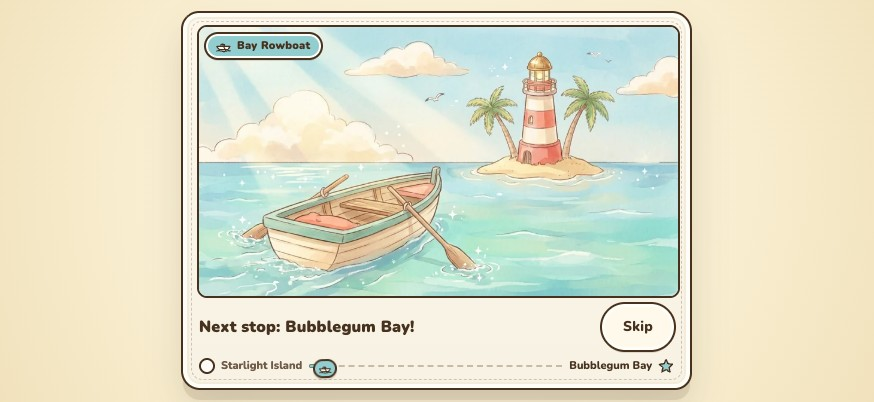
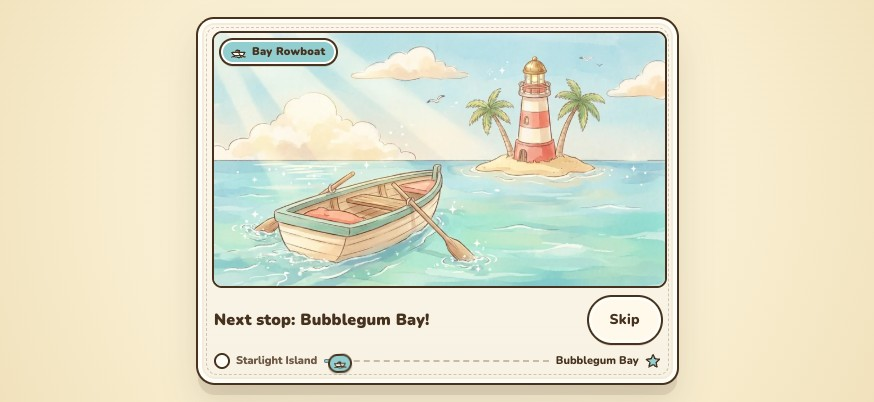
fix: Polish E14 travel vignette phone safe-area layout and remove unused fade helper (#17)
Tightens compact phone and notched iPhone SE (667x375) safe-area spacing and single-line caption clamping in travel-overlay.css, removes the unused travelFadeAlpha export in src/render/fade.ts, expands Playwright Chromium/WebKit @smoke e2e coverage for notched 667x375 Alpine Summit Overlook and live bus-coast.webp, and adds vision-verified review captures.

Changed region(s): [[0.1854, 0.0299, 0.8032, 1.0], [0.4016, 0.2985, 0.4325, 0.3284]]

diff --git a/tests/e2e/travel-vignette.spec.ts b/tests/e2e/travel-vignette.spec.ts
@@ -301,3 +301,127 @@ test(
   expect((await readState(page)).transition).toBeNull();
   await expect(page.locator("html")).not.toHaveAttribute("data-travel-vignette", "open");
 });
+
+test(
+  "Notched iPhone SE 667x375 fits longest summit caption and coastal bus-coast card @smoke",
+  async ({ page }) => {
+    await page.setViewportSize({ width: 667, height: 375 });
+    await page.goto("./?touch=1");
+    await page.waitForFunction(() => Boolean(window.__cloverhollow));
+    await page.evaluate(() => {
+      const style = document.documentElement.style;
+      style.setProperty("--safe-left", "44px");
+      style.setProperty("--safe-right", "44px");
+      style.setProperty("--safe-bottom", "21px");
+      style.setProperty("--safe-top", "0px");
+    });
+
+    // Ride down from Summit paused so Fae lands beside Pinecone Pass ski lift.
+    await resetPaused(page, "summit");
+    await walk(page, "y", 875);
+    await walk(page, "x", 465);
+    await page.keyboard.down("ArrowLeft");
+    await step(page, 2);
+    await page.keyboard.up("ArrowLeft");
+    await pressZ(page);
+    await advanceToFinalTravelLine(page, 0);
+    await page.keyboard.press("z");
+    await step(page, 40);
+    expect((await readState(page)).area).toBe("pass");
+
+    // Approach ski lift (500, 412), lasso the scarf once, then board up to Summit live.
+    await walk(page, "x", 500);
+    await walk(page, "y", 455);
+    await page.keyboard.down("ArrowUp");
+    await step(page, 2);
+    await page.keyboard.up("ArrowUp");
+    await pressZ(page);
+    // Clear the one-time scarf lasso knot first.
+    for (let i = 0; i < 40; i += 1) {
+      const d = (await readState(page)).dialogue;
+      if (d === null) break;
+      await pressZ(page);
+    }
+    await pressZ(page);
+    expect((await readState(page)).dialogue?.knot).toBe("ski_lift");
+    await advanceToFinalTravelLine(page, 0);
+
+    await resume(page);
+    await page.keyboard.press("z");
+    await waitForVignetteOpen(page, "lift-summit", "Next stop: Alpine Summit Overlook!");
+    await waitForStableOpacity(page);
+
+    const notched = await page.evaluate(() => {
+      const card = document.querySelector(".travel-card")?.getBoundingClientRect();
+      const caption = document.querySelector(".travel-caption")?.getBoundingClientRect();
+      const skip = document.querySelector(".travel-skip-btn")?.getBoundingClientRect();
+      return { card, caption, skip };
+    });
+    expect(notched.card).not.toBeNull();
+    expect(notched.caption).not.toBeNull();
+    expect(notched.skip).not.toBeNull();
+    if (
+      notched.card === undefined ||
+      notched.caption === undefined ||
+      notched.skip === undefined
+    ) {
+      throw new Error("Missing notched SE vignette layout elements");
+    }
+    expect(notched.card.left).toBeGreaterThanOrEqual(44);
+    expect(notched.card.right).toBeLessThanOrEqual(667 - 44 + 1);
+    expect(notched.card.top).toBeGreaterThanOrEqual(0);
+    expect(notched.card.bottom).toBeLessThanOrEqual(375 - 21 + 1);
+    expect(notched.caption.height).toBeLessThanOrEqual(24);
+    expect(notched.caption.right).toBeLessThanOrEqual(notched.skip.left + 1);
+    expect(notched.skip.height).toBeGreaterThanOrEqual(44);
+
+    if (REVIEW_SHOTS) {
+      await page.screenshot({
+        path: "art/review/e14-travel-summit-se-667.jpg",
+        type: "jpeg",
+        quality: 90,
+      });
+    }
+
+    await page.locator(".travel-overlay").click();
+    await page.waitForFunction(() => {
+      const state = window.__cloverhollow?.getState();
+      return state?.area === "summit" && state.transition === null;
+    });
+
+    // Also verify coastal bus-coast.webp card live (plaza -> bay via sue-cottage).
+    await page.setViewportSize({ width: 1280, height: 720 });
+    await resetPaused(page, "sue-cottage");
+    await walk(page, "y", 510);
+    await walk(page, "x", 150);
+    await step(page, 40);
+    expect((await readState(page)).area).toBe("bay");
+    await walk(page, "y", 545);
+    await walk(page, "x", 355);
+    await page.keyboard.down("ArrowUp");
+    await step(page, 2);
+    await page.keyboard.up("ArrowUp");
+    await pressZ(page);
+    await advanceToFinalTravelLine(page, 0);
+    await page.keyboard.press("z");
+    await step(page, 40);
+    expect((await readState(page)).area).toBe("plaza");
+
+    await page.keyboard.down("ArrowUp");
+    await step(page, 2);
+    await page.keyboard.up("ArrowUp");
+    await pressZ(page);
+    expect((await readState(page)).dialogue?.knot).toBe("bus_stop");
+    await advanceToFinalTravelLine(page, 0);
+
+    await resume(page);
+    await page.keyboard.press("z");
+    await waitForVignetteOpen(page, "bus-coast", "Next stop: Bubblegum Bay!");
+    await expect(page.locator(".travel-badge-label")).toHaveText("Star-Line Bus");
+    await page.keyboard.press("z");
+    await page.waitForFunction(() => {
+      const state = window.__cloverhollow?.getState();
+      return state?.area === "bay" && state.transition === null;
+    });
+  },
+);

diff --git a/src/ui/travel-overlay.css b/src/ui/travel-overlay.css
@@ -168,12 +168,16 @@
 }
 
 .travel-caption {
+  min-width: 0;
   margin: 0;
   color: var(--sticker-ink);
   font-size: 20px;
   font-weight: 900;
   letter-spacing: 0.01em;
   line-height: 1.15;
+  white-space: nowrap;
+  overflow: hidden;
+  text-overflow: ellipsis;
 }
 
 .travel-skip-btn {
@@ -324,11 +328,11 @@
   }
 
   .travel-card {
-    gap: 6px;
+    gap: 8px;
     width: min(
       560px,
       calc(100vw - 28px - var(--safe-left) - var(--safe-right)),
-      calc((100dvh - var(--safe-top) - var(--safe-bottom) - 128px) * 16 / 9 + 20px)
+      calc((100dvh - var(--safe-top) - var(--safe-bottom) - 144px) * 16 / 9 + 20px)
     );
     padding: 8px 10px 8px;
     border-width: 4px;
@@ -341,7 +345,7 @@
   }
 
   .travel-art-wrap {
-    max-height: calc(100dvh - var(--safe-top) - var(--safe-bottom) - 128px);
+    max-height: calc(100dvh - var(--safe-top) - var(--safe-bottom) - 144px);
     border-radius: 10px;
   }
 
@@ -360,8 +364,8 @@
   }
 
   .travel-footer {
-    gap: 6px;
-    padding: 0 2px;
+    gap: 8px;
+    padding: 1px 2px 0;
   }
 
   .travel-caption {
@@ -383,6 +387,34 @@
   .travel-marker {
     width: 24px;
     height: 19px;
+  }
+}
+
+@media (max-height: 400px) {
+  .travel-card {
+    gap: 6px;
+    width: min(
+      520px,
+      calc(100vw - 24px - var(--safe-left) - var(--safe-right)),
+      calc((100dvh - var(--safe-top) - var(--safe-bottom) - 134px) * 16 / 9 + 16px)
+    );
+    padding: 6px 8px 6px;
+  }
+
+  .travel-art-wrap {
+    max-height: calc(100dvh - var(--safe-top) - var(--safe-bottom) - 134px);
+  }
+
+  .travel-footer {
+    gap: 6px;
+  }
+
+  .travel-caption {
+    font-size: 14.5px;
+  }
+
+  .travel-stop-label {
+    font-size: 10.5px;
   }
 }
 

diff --git a/tests/unit/travel-vignette.test.ts b/tests/unit/travel-vignette.test.ts
@@ -3,7 +3,7 @@ import { join } from "node:path";
 import { describe, expect, it } from "vitest";
 import { loadContent } from "../../src/content/load";
 import type { Area, State } from "../../src/core";
-import { fadeAlpha, travelFadeAlpha, vignetteEnvelope } from "../../src/render/fade";
+import { vignetteEnvelope } from "../../src/render/fade";
 import {
   classifyTravelVignette,
   shouldShowTravelVignette,
@@ -260,7 +260,7 @@ describe("E14: Travel Vignette Classification & Rules", () => {
     ).toBe(false);
   });
 
-  it("computes bounded motion, vignette envelope, travelFadeAlpha, and skip keys", () => {
+  it("computes bounded motion, vignette envelope, and skip keys", () => {
     const modes: readonly [TravelMode, number, number, number][] = [
       ["bus", -3.2, 0.8, 2.2],
       ["boat", -2.8, 2.8, 4.5],
@@ -306,14 +306,6 @@ describe("E14: Travel Vignette Classification & Rules", () => {
       progress: 1,
     });
     expect(vignetteEnvelope(500, 0)).toEqual({ opacity: 0, scale: 1, progress: 1 });
-
-    const transition: State["transition"] = {
-      phase: "in",
-      elapsed: 6,
-      target: { area: "bay", spawn: "from-plaza" },
-    };
-    expect(travelFadeAlpha(transition, 14, true)).toBe(1);
-    expect(travelFadeAlpha(transition, 14, false)).toBe(fadeAlpha(transition, 14));
 
     for (const code of ["KeyZ", "Space", "Enter", "KeyX", "Escape"]) {
       expect(isTravelSkipKey(code)).toBe(true);

diff --git a/src/render/fade.ts b/src/render/fade.ts
@@ -73,11 +73,3 @@ export function vignetteEnvelope(
   }
   return { opacity: 1, scale: 1, progress };
 }
-
-export function travelFadeAlpha(
-  transition: State["transition"],
-  doorFadeTicks: number,
-  vignetteActive: boolean,
-): number {
-  return vignetteActive ? 1 : fadeAlpha(transition, doorFadeTicks);
-}

diff --git a/docs/review-queue.md b/docs/review-queue.md
@@ -136,4 +136,4 @@ journal gallery baselines were viewed at phone and desktop sizes.
 | World-Expansion Playtest & Owner Art Review Showcase (Milestone 165) | Publication-grade 6-panel HUD-free showcase montage (`art/review/world-expansion-showcase.jpg`) pairing Photo Showcase Mode stills of Milo's Sketch Loft, Rosie's Flower Cottage, Alpine Summit Overlook, Starlight Island, and the Post-Finale Sunny Cloverhollow Sanctuary Festival alongside Chef Mateo's Taco Truck Kitchen, backed by automated `tests/unit/release-audit.test.ts` (32/32 areas, 36 fixtures, 21 expansion art artifacts, `< 1,000` line src cap) and `@smoke` Chromium + WebKit `tests/e2e/release-playtest.spec.ts` plus `milestone-158.spec.ts` & 5 `vision`-audited baseline refreshes (`ending-kitchen`, `gamepad-lantern`, `kit-school-behind`, `trail-bridge`, `woods-clubhouse-lantern`) |
 | Living NPC Scale Calibration & Spatial Dispersion Polish (Milestone 166) | Mass-calibrated `scale` values in `content/characters.json` for all 28 Living NPCs (`[0.42, 0.47]` kids, `[0.44, 0.50]` adults; zero art regeneration), spatial dispersion & staggered X/Y placement polish across 9 areas (`plaza`, `bay`, `trail`, `park`, `field`, `lodge`, `arcade`, `east-hall`, `parlor`) with `>= 220u` outdoor / `>= 190u` indoor separation between Living NPCs across strolling waypoints, 0% occlusion, and zero replay drift across all 73 `origin/main` recorded sims, permanent Spatial Dispersion & Scale Consistency unit guards (`tests/unit/living-npcs.test.ts`), and `vision`-verified 1280×720 review JPEGs (`art/review/living-npcs-dispersed-plaza.jpg`, `art/review/living-npcs-dispersed-bay.jpg`, `art/review/living-npcs-dispersed-interiors.jpg`) |
 | Interactive Star Gem Field Ledger & Grandpa Barnaby's Gem Tracker (Milestone 171) | Pure `journalStarGems` / `StarGemId` / `StarGemEntry` registry (`src/core/journal.ts`) listing all 7 lore-accurate valley Star Gems (`Amethyst`, `Aqua`, `Citrine`, `Frost`, `Prism`, `Amber`, `Clover`) with jewel hues, found notes, and Grandpa Barnaby's field hints; pixel-identical interactive `button.journal-supply.journal-gems` pill on Journal NOTES (`src/ui/journal.ts`, `src/ui/journal-nav.ts`, `src/ui/journal.css`) opening the die-cut **Star Gem Field Ledger** modal (`src/ui/journal-gems-ledger.ts`, composed into `src/ui/journal-field-note.ts`) with faceted jewel-tinted SVG icons (zero `<text>` nodes), golden `★ 7/7 COMPLETE!` header & footer celebration, full `Escape`/`X`/`B`/backdrop/`×` dismiss with `.journal-gems` focus restoration and UI foley, and `vision`-verified review captures (`art/review/m171-gems-ledger-1280.jpg`, `art/review/m171-gems-ledger-874.jpg`) with zero visual baseline diffs |
-| Illustrated Storybook Travel Vignettes — Art Wave C2 (Milestone 176 / Track E14) | Five compact `800x450` WebP hand-painted watercolor fast-travel diorama cards (`public/assets/travel/{bus-hills,bus-coast,bus-pass,boat-island,lift-summit}.webp`, 42–65 KB each; `art/recipes/travel-vignettes.json`; 3×2 review contact sheet `art/review/travel-vignettes-sheet.jpg`), framed die-cut travel postcard overlay with `"Next stop: <Destination>!"` caption, animated progress-fill route strip, and skippable `1680 ms` hold during live bus/rowboat/ski-lift rides (instant zero-delay bypass in paused harness steps & Reduced Motion); live renders reviewed via `vision` in `art/review/e14-travel-bus-1280.jpg` (1280×720) and `art/review/e14-travel-boat-874.jpg` (874×402 touch) |
+| Illustrated Storybook Travel Vignettes — Art Wave C2 (Milestone 176 / Track E14) | Five compact `800x450` WebP hand-painted watercolor fast-travel diorama cards (`public/assets/travel/{bus-hills,bus-coast,bus-pass,boat-island,lift-summit}.webp`, 42–65 KB each; `art/recipes/travel-vignettes.json`; 3×2 review contact sheet `art/review/travel-vignettes-sheet.jpg`), framed die-cut travel postcard overlay with `"Next stop: <Destination>!"` caption, animated progress-fill route strip, and skippable `1680 ms` hold during live bus/rowboat/ski-lift rides (instant zero-delay bypass in paused harness steps & Reduced Motion); live renders reviewed via `vision` in `art/review/e14-travel-bus-1280.jpg` (1280×720), `art/review/e14-travel-boat-874.jpg` (874×402 touch), and `art/review/e14-travel-summit-se-667.jpg` (notched 667×375 iPhone SE touch) |

diff --git a/docs/plan.md b/docs/plan.md
@@ -7589,7 +7589,8 @@ Milestone number in `docs/plan.md` at rebase time to avoid numbering collisions.
     `island/props-0.webp`).
   - Audited every card and the labeled 3×2 review sheet
     (`art/review/travel-vignettes-sheet.jpg`) plus live desktop/phone renders
-    (`art/review/e14-travel-bus-1280.jpg`, `art/review/e14-travel-boat-874.jpg`)
+    (`art/review/e14-travel-bus-1280.jpg`, `art/review/e14-travel-boat-874.jpg`,
+    `art/review/e14-travel-summit-se-667.jpg`)
     with `vision`.
 - **Pure Route Classifier & Fade Envelope (`src/render/travel-vignette.ts`,
   `src/render/fade.ts`):**
@@ -7601,14 +7602,15 @@ Milestone number in `docs/plan.md` at rebase time to avoid numbering collisions.
     rest fades, and `harness`.
   - `shouldShowTravelVignette` enforces instant zero-delay bypass during paused
     harness steps, `paused` mode, and Reduced Motion (`isReducedMotionActive()`).
-  - Added `travelMarkerMotion`, `vignetteEnvelope`, and `travelFadeAlpha`
-    leaving `fadeAlpha` and `transitionZoom` intact.
+  - Added `travelMarkerMotion` and `vignetteEnvelope`, leaving `fadeAlpha` and
+    `transitionZoom` intact.
 - **Postcard Overlay & AreaLoader Integration (`src/ui/travel-overlay.ts`,
   `src/ui/travel-overlay.css`, `src/shell/area-loader.ts`, `src/main.ts`):**
   - Framed die-cut cream postcard (`z-index: 65`, `.sticker-ui.travel-overlay`
     specificity guard against CSS bundle order, dashed stitch border, hand-inked
     SVG vehicle badge & animated progress-fill route strip, `>= 44 px` touch
-    skip button, safe-area fit on both `1280x720` and `874x402`).
+    skip button, safe-area fit on `1280x720`, `874x402`, and notched iPhone SE
+    `667x375`).
   - `createAreaLoader` preloads the travel WebP on `syncTransition("out", false)`
     and runs the scenic hold in parallel with `setArea` / `warmAreaMedia` during
     live play, supporting instant tap, Confirm/Cancel key, and rising-edge

diff --git a/spec.md b/spec.md
@@ -743,8 +743,8 @@ ios/            Capacitor iOS project (from Milestone 4).
   During live fast-travel rides (Star-Line Bus between `plaza`, `bay`, and
   `pass`; Bay Rowboat between `bay` and `island`; and Alpine Ski Lift between
   `pass` and `summit`), presentation-only **Illustrated Storybook Travel
-  Vignettes** (`src/render/travel-vignette.ts`, `vignetteEnvelope` /
-  `travelFadeAlpha` in `src/render/fade.ts`, `src/ui/travel-overlay.ts` /
+  Vignettes** (`src/render/travel-vignette.ts`, `vignetteEnvelope` in
+  `src/render/fade.ts`, `src/ui/travel-overlay.ts` /
   `src/ui/travel-overlay.css`, and `src/shell/area-loader.ts`, Milestone 176 /
   Track E14, Art Wave C2) present one of 5 compact `800x450` hand-painted
   watercolor WebP diorama cards (`public/assets/travel/{bus-hills,bus-coast,
